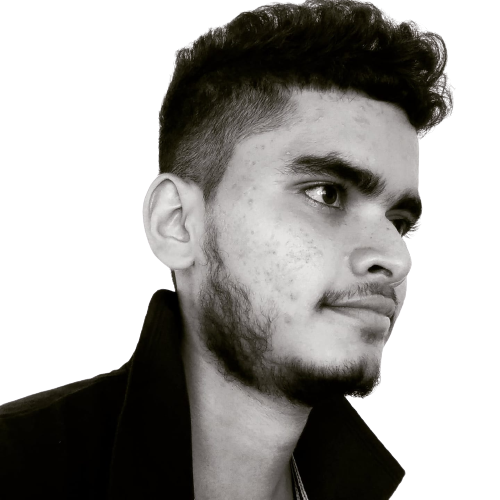
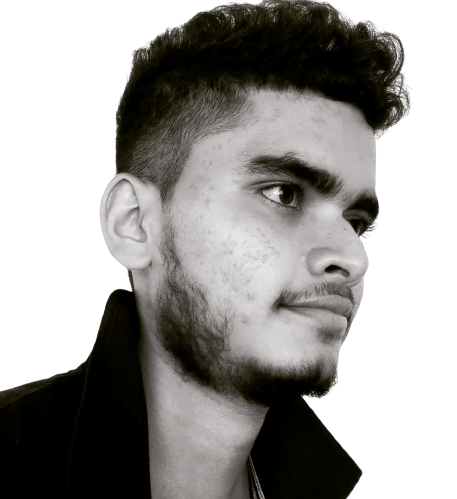
Added Transition-01 and Transition-02

Changed region(s): [[0.0, 0.0, 0.919, 1.0]]

diff --git a/index.html b/index.html
@@ -14,17 +14,18 @@
         header{
             background-color: #444444;
             width: 100%;
-            height: 40px;
+            height: 55px;
         }
+
+        /*----------Start Header navigations----------*/
 
         header nav ul{
             list-style-type: none;
             display: flex;
             position: absolute;
             right: 8px;
-            top: 3px;
+            top: 10px;
         }
-
 
        header nav a{
            font-family: Quicksand;
@@ -39,6 +40,12 @@
 
        }
 
+       header a:hover{
+            color: black;
+            font-weight: bold;
+       }
+        /*----------End Header navigations----------*/
+
         #HomeSec {
             background-color: #000000;
             width: 100%;
@@ -50,31 +57,41 @@
         }
 
 
+        /*--------------Start Name Line---------------*/
         #HomeSec h1{
-            padding-left: 450px;
+            padding-left: 500px;
             padding-top: 65px;
             font-size: 80px;
         }
 
         #HomeSec h2{
-            padding-left: 450px;
+            padding-left: 500px;
             font-size: 55px;
             font-weight: normal;
         }
+        /*--------------End Name Line---------------*/
 
+
+        /*------------------Social media Icons--------*/
         #HomeSec a{
+            position: relative;
+            left: 50px;
             padding-left: 50px;
             padding-bottom: 50px;
         }
-
+        /*--------------------------------------------*/
         #HomeSec #mypic{
          position: absolute;
-            right: 1050px;
-            bottom:24px;
+            right: 1100px;
+            left: 0;
+            bottom:0;
+            top:38px;
+            margin: auto;
             height: 550px;
-            width: 550px;
+            width: 520px;
         }
 
+        /*-----------------Main Section--------------------*/
         main section ul{
             display: flex;
            position: absolute;
@@ -98,11 +115,13 @@
 
         }
 
-        main>section>ul>#dIcon{
+        #dIcon{
             display: flex;
             position: absolute;
             left: 840px;
         }
+        /*-------------------------------------------------*/
+
 
         #EducationSection{
             background-color: #282828;
@@ -222,14 +241,14 @@
 
         <ul>
             <a href="https://www.facebook.com"><img src="assets/icon/facebook%20(1).png" height="50" width="50" alt=""></a>
-            <a href="https://lasanakriyawasam123@gmail.com"><img src="assets/icon/gmail%20(1).png" height="50" width="50" alt=""></a>
+            <a href= ""><img src="assets/icon/gmail%20(1).png" height="50" width="50" alt=""></a>
             <a href="https://www.instagram.com"><img src="assets/icon/instagram%20(1).png" height="58" width="58" alt=""></a>
             <a href=""><img src="assets/icon/whatsapp.png" height="50" width="50" alt=""></a>
 
             <a id="cv" href="assets/images/linkedin.png" download="Download CV.png">Download CV</a>
-            <a id="dIcon" href=""><img src="assets/icon/download_Icon.png" height="20" width="20" alt=""></a>
         </ul>
 
+            <a id="dIcon" href=""><img src="assets/icon/download_Icon.png" height="20" width="20" alt=""></a>
 
     </section>
     <!-- End Home Slide    -->

diff --git a/My Projects/css/Transition-01.html b/My Projects/css/Transition-01.html
@@ -1,0 +1,95 @@
+<!DOCTYPE html>
+<html lang="en">
+<head>
+    <meta charset="UTF-8">
+    <title>Title</title>
+  <link rel="stylesheet" href="assets/css/normalize.css">
+  <style>
+
+    body{
+      background-color: #273c75;
+    }
+
+    body>section:nth-child(1){
+      top: 100px;
+      position: relative;
+      width: 300px;
+      height: 500px;
+      display: flex;
+      flex-direction: column;
+      justify-content: space-evenly;
+      right: 220px;
+    }
+
+    div{
+      left: 0;
+      position: relative;
+      background-color: grey;
+      color: #f3f1f1;
+      font-family: Arial;
+      border: 6px solid white;
+      border-top-right-radius:20px;
+      border-bottom-right-radius: 20px;
+      border-left: none;
+    }
+
+    h1{
+      display: inline-block;
+      font-size: 25px;
+      position: relative;
+      left: 15px;
+    }
+
+    img{
+      height: 35px;
+      width: 40px;
+      position: absolute;
+      top: 15px;
+      right: 20px;
+    }
+
+    div:hover{
+      left: 220px;
+      transition-duration: 1s;
+    }
+
+    h2{
+      position: relative;
+      font-size: 100px;
+      left: 450px;
+      bottom: 330px;
+      font-family: Arial;
+      color: #7f8fa6;
+    }
+
+  </style>
+
+</head>
+<body>
+<section>
+  <div>
+    <h1>Home</h1>
+    <img src="assets/images/home12345.png " alt="">
+  </div>
+  <div>
+    <h1>Registration</h1>
+    <img src="assets/images/pngaaa.com-263515.png " alt="">
+  </div>
+  <div>
+    <h1>Add Subjects</h1>
+    <img src="assets/images/pngkit_teaching-icon-png_3812397.png" alt="">
+  </div>
+  <div>
+    <h1>Payment</h1>
+    <img src="assets/images/Payment.png " alt="">
+  </div>
+  <div>
+    <h1>Search Student</h1>
+    <img src="assets/images/PngItem_307511.png " alt="">
+  </div>
+
+</section>
+
+  <h2>Lasan Kariyawasam</h2>
+</body>
+</html>

diff --git a/My Projects/css/Transition-02.html b/My Projects/css/Transition-02.html
@@ -1,0 +1,77 @@
+<!DOCTYPE html>
+<html lang="en">
+<head>
+    <meta charset="UTF-8">
+    <title>Case 2</title>
+    <link href="assets/css/normalize.css" rel="stylesheet">
+    <link href="assets/css/fonts/css/all.css" rel="stylesheet">
+
+    <style>
+
+        body{
+            background-color:   black;
+        }
+
+        section {
+            width: 300px;
+            height: 300px;
+            left: 0;
+            right: 0;
+            top: 0;
+            bottom: 0;
+            margin: auto;
+            position: absolute;
+            border-radius: 100%;
+            background-color:  #2f3640;
+
+
+        }
+
+        section > p {
+            font-size: 30px;
+            font-family: Arial;
+            color: silver;
+            top: 0;
+            left: 0;
+            right: 0;
+            bottom: 0;
+            width: max-content;
+            height: max-content;
+            margin: auto;
+            position: absolute;
+            z-index: 3;
+            text-align: center;
+            font-weight: bolder;
+        }
+
+
+        section::before {
+            content: "";
+            border-radius: 100%;
+            border: 20px solid #7f8c8d;
+            border-top: 20px solid gold;
+            top: 0;
+            bottom: 0;
+            left: 0;
+            right: 0;
+            position: absolute;
+
+        }
+
+        section:hover::before{
+            transform: rotate(360deg);
+            transition: all 2s;
+            cursor: pointer;
+
+        }
+
+    </style>
+</head>
+<body>
+
+<section>
+    <p>Lasan<br> Kariyawasam</p>
+</section>
+
+</body>
+</html>
